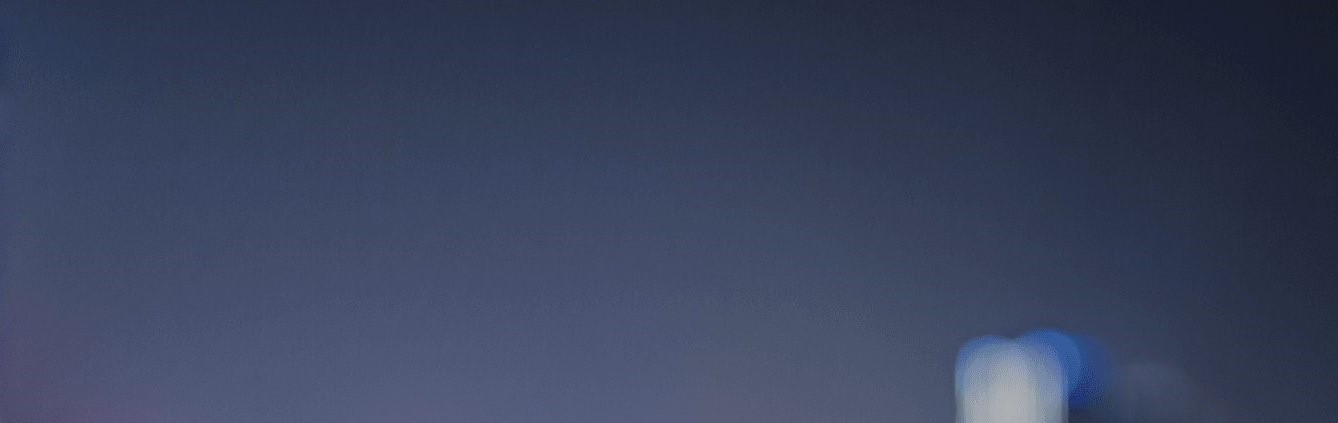
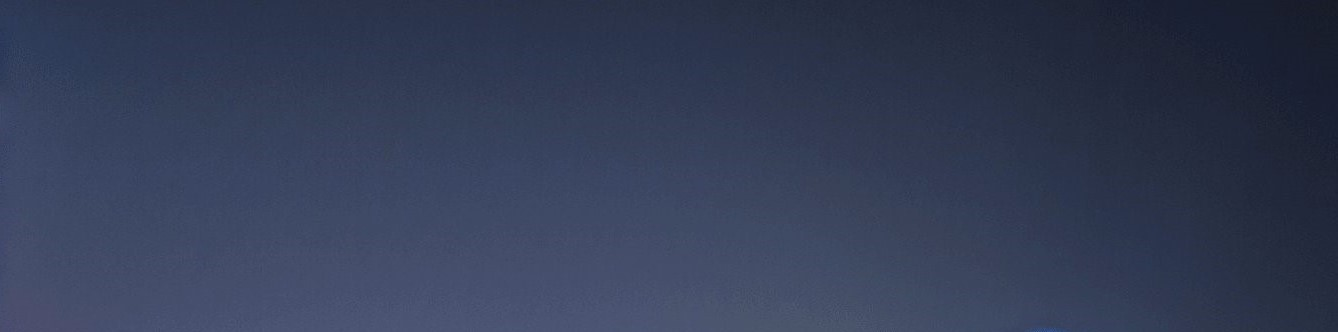
Finish

Changed region(s): [[0.7048, 0.753, 0.858, 1.0]]

diff --git a/index.html b/index.html
@@ -1,29 +1,33 @@
 <!DOCTYPE html>
 <html>
+
 <head>
     <title>My Portfolio</title>
     <link rel="stylesheet" href="styles.css">
 </head>
+
 <body>
     <nav class="nav">
         <ul>
             <li><a href="#">Home</a></li>
-            <li><a href="#skills">Skills</a></li>
-            <li><a href="#about">Projects &amp; Internships</a></li>
-            <li><a href="#certi">My Certifications</a></li>
-            <li><a href="#contact">Connect</a></li>
+            <li><a href="#about">About Me</a></li>
+            <li><a href="#projects">Work Samples</a></li>
+            <li><a href="#connect">Connect</a></li>
         </ul>
     </nav>
 
     <header class="main">
         <div class="container">
             <div class="data">
-                <h1>Hi, I'm Meghana.</h1>
-                <h3>Pursuing Bachelor of Technology in the stream of Information Technology.</h3>
-                <h3>I seek challenging opportunities where I can fully use my skills</h3>   
-                <h3>for the success of the organization.</h3><br>
-                <h2>View and download my resume here --
-                    <button onclick="window.open('https://drive.google.com/file/d/1090x_d5uGiXWRnFnlLCozPZPwJTGpTqS/view?usp=sharing','_blank')">RESUME</button>
+                <h3>Hi, my name is </h3>
+                <h1>Namburu <label style="color: rgb(246, 231, 9);">Meghana</label></h1>
+                <h2>I'm final year graduate</h2>
+                <h2>Interested in designing web pages - <a
+                        href="https://drive.google.com/file/d/1-TeuAxDo-nP1MyzbQ8IhW1VV8w__jyky/view?usp=sharing"
+                        style="color:whitesmoke;">work sample</a></h2>
+                <h2>View and download my resume here - -
+                    <button
+                        onclick="window.open('https://drive.google.com/file/d/1090x_d5uGiXWRnFnlLCozPZPwJTGpTqS/view?usp=sharing','_blank')">resume</button>
                 </h2>
             </div>
             <div class="image">
@@ -32,6 +36,89 @@
         </div>
     </header>
 
+    <section id="about">
+        <div class="about">
+            <h1><img src="skills.jpeg" width="24" height="24" /> Skills</h1>
+            <ul>
+                <li>Programming Languages(Java,Python)</li>
+                <li>Data Structures</li>
+                <li>Front-End Development(HTML,CSS,JavaScript,PHP)</li>
+                <li>Database Management System(MySQL)</li>
+            </ul>
+            <br><br><br>
+            <h1><img src="interests.jpeg" width="24" height="24" /> Interests</h1>
+            <ul>
+                <li>Coding</li>
+                <li>Organizing events</li>
+            </ul><br>
+        </div>
+        
+        <div class="about">
+            
+        </div>
+    </section>
+
+    <section id="projects">
+        <div class="projects">
+            <div class="project">
+                <div class="inner">
+                    <div class="front">
+                        <h3 style="color:#212529">Social Transport Website</h3>
+                    </div>
+                    <div class="back">
+                        <a href="https://drive.google.com/file/d/1-TeuAxDo-nP1MyzbQ8IhW1VV8w__jyky/view?usp=sharing">
+                            <img src="transport.png" alt="Project Image" style="width:100%;height:100%;">
+                        </a>
+                    </div>
+                </div>
+            </div>
+
+            <div class="project">
+                <div class="inner">
+                    <div class="front">
+                        <h3 style="color:#212529">Photo Editor App</h3>
+                    </div>
+                    <div class="back">
+                        <a href="https://drive.google.com/file/d/1guVHUI9yZKxf5Ls9bZhzWaN5_fvCKBxg/view?usp=sharing">
+                            <img src="photoeditor.jpg" alt="Project Image" style="width:100%;height:100%;">
+                        </a>
+                    </div>
+                </div>
+            </div>
+
+        </div>
+        
+        <div class="projects">
+            <div class="project" style="width: 88%;">
+                <ul>
+                    <li><b>Programming Languages: </b>HTML,CSS,JavaScript,PHP</li>
+                    <li><b>Source-code Editor: </b>Visual Studio Code</li>
+                    <li><b>Description: </b>This website contains the financial information about the buses of our college.</li>
+                </ul>
+            </div>
+            <div class="project" style="width: 88%;">
+                <ul>
+                    <li><b>Programming Languages: </b>XMl,Java</li>
+                    <li><b>Source-code Editor: </b>Android Studio</li>
+                    <li><b>Description: </b>This app allows the user to apply various transformations over an image.</li>
+                </ul>
+            </div>
+        </div>
+    </section>
+
+    <section id="connect">
+        <div class="connect" style="text-align:center">
+            <a href="mailto:namburumeghana2020@gmail.com" style="color: whitesmoke;">Mail</a><br><br><br>
+
+            <a href="https://www.linkedin.com/in/meghana-namburu-416085215" style="color: whitesmoke;">Linkedin</a><br><br><br>
+
+            <a href="https://github.com/MeghanaNamburu" style="color: whitesmoke;">Github</a><br><br><br>
+
+            <a href="https://www.hackerrank.com/namburumeghana21" style="color: whitesmoke;">HackerRank</a><br><br><br>
+
+        </div>
+    </section>
+    <!--
     <section id="skills" class="section">
         <div class="c1">
             <h1>Skills</h1>
@@ -103,6 +190,7 @@
             </p><br>
         </div>
     </section>
-
+-->
 </body>
+
 </html>

diff --git a/styles.css b/styles.css
@@ -2,6 +2,7 @@
     margin: 0;
     padding: 0;
     box-sizing: border-box;
+    scroll-behavior: smooth;
 }
 
 body {
@@ -9,10 +10,9 @@ body {
 }
 
 .nav {
-    background-color: #333;
     position: fixed;
     width: 100%;
-    top: 0;
+    top: 3%;
     z-index: 1;
 }
 
@@ -27,15 +27,22 @@ body {
     margin-right: 20px;
 }
 
+.nav ul li a:hover{
+    color:rgb(247, 236, 89);
+}
+
+
 .nav ul li a {
     text-decoration: none;
+    font-family:system-ui, -apple-system, BlinkMacSystemFont, 'Segoe UI', Roboto, Oxygen, Ubuntu, Cantarell, 'Open Sans', 'Helvetica Neue', sans-serif;
     color: #fff;
-    font-size: 18px;
+    font-size: 20px;
+    font-weight: bolder;
     padding: 5px;
 }
 
 .main {
-    background: url("back.jpg") no-repeat center center fixed;
+    background: url("backk.jpg") no-repeat center center fixed;
     background-size: cover;
     height: 100vh;
     display: flex;
@@ -55,7 +62,6 @@ body {
 
 .data {
     flex: 1 1 60%;
-    text-align: center;
     color: #fff;
 }
 
@@ -76,37 +82,100 @@ body {
 
 .image img {
     max-width: 50%;
-    height: auto;
+    height: 50%;
     border-radius: 10%;
 }
 
-.section {
-    padding: 50px 0;
+section {
     color:#fff;
     background: url("back1.jpg") no-repeat center center fixed;
     background-size: cover;
-    height: auto;
+    height: 100vh;
+    width:100%;
     font-size: 3vh;
     display: flex;
 }
 
+section .about{
+    height:auto;
+    width:auto;
+    margin-left:10%;
+    margin-top: 10%;
+}
+
+section .projects{
+    height:auto;
+    width:30%;
+    margin-left:10%;
+    margin-top:5%;
+}
+
+section .connect{
+    width: 100%;
+    height: 100%;
+    margin-top: 13%;
+}
+
+section .project{
+    width:65%;
+    height:30%;
+    margin-top: 10%;
+    margin-left: 5%;
+    background-color:transparent;
+    perspective: 1000px;
+}
+
+.inner{
+    position:relative;
+    width: 100%;
+    height: 100%;
+    text-align: center;
+    transition: transform 0.8s;
+    transform-style: preserve-3d;
+}
+
+.project:hover .inner{
+    transform: rotateY(180deg);
+}
+
+.front, .back{
+    position: absolute;
+    width: 100%;
+    height:100%;
+    -webkit-backface-visibility:hidden;
+    backface-visibility: hidden;
+}
+
+.front{
+    background-color: #bbb;
+    color:#fff;
+    display: flex;
+    justify-content: center;
+    align-items: center;
+}
+
+.back{
+    background-color: #bbb;
+    color:#000;
+    transform: rotateY(180deg);
+}
+
+
 
 button {
     padding: 10px 20px;
-    background-color: #007bff;
-    border: none;
+    background-color:transparent;
+    border:2px solid rgb(11, 206, 249);
+    border-radius: 45%;
     color: #fff;
     font-size: 18px;
+    font-weight: bold;
     cursor: pointer;
 }
 
 button:hover {
-    background-color: #0056b3;
-}
-
-.c1{
-    margin-left: 10%;
-    margin-top:2%;
+    background-color:rgb(11, 206, 249);
+    font-weight: normal;
 }
 
 @media (max-width: 600px) {
